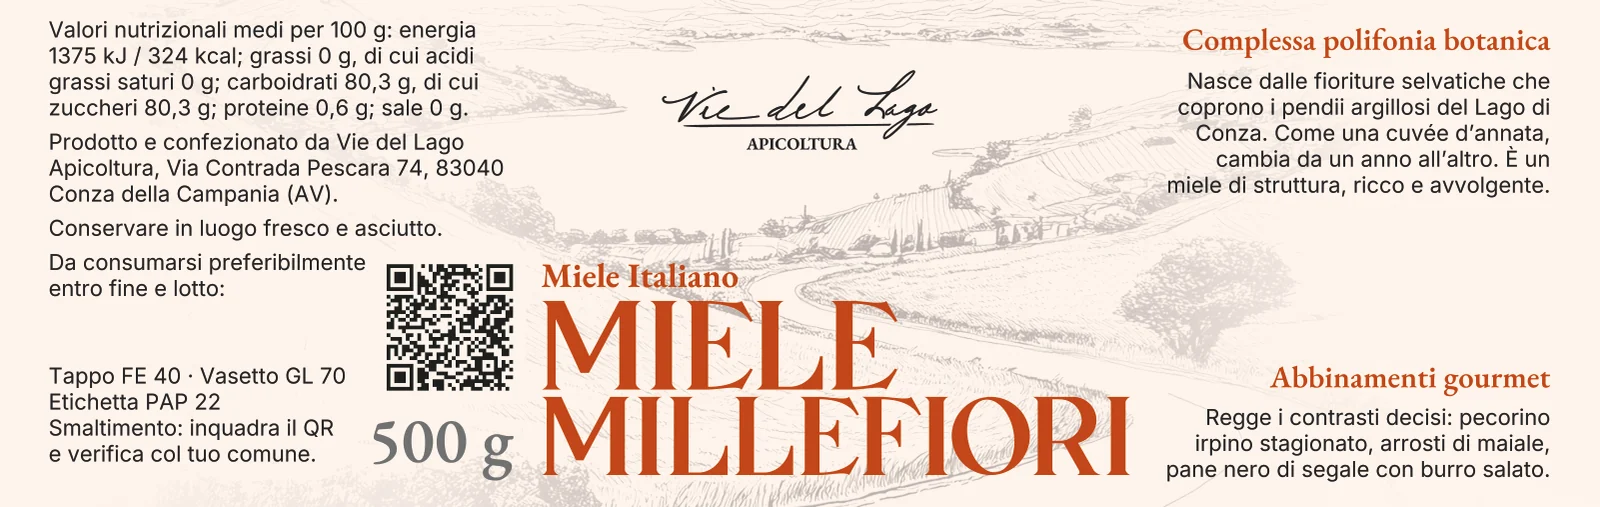
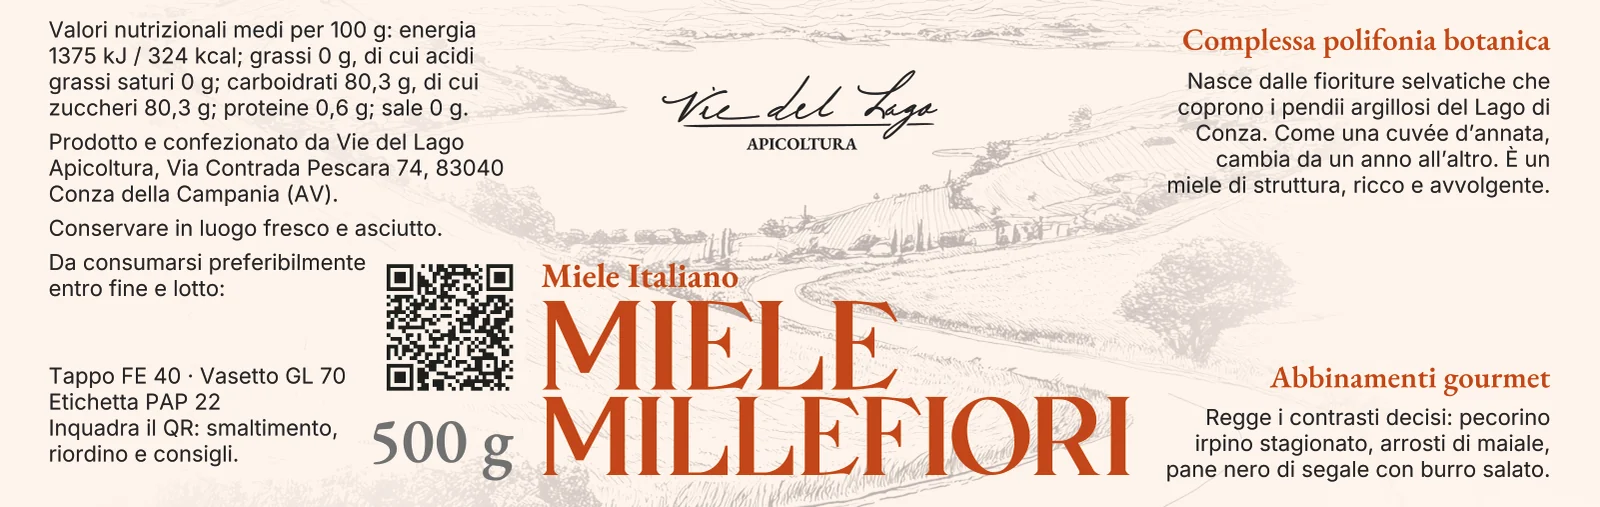
Pagine QR: riordino, recensione e cristallizzazione; etichette con la nuova scritta (#101)
- /q/ e /en/q/: riordino su WhatsApp (numero composto in JS), recensione
  Google, consigli sulla cristallizzazione per ogni miele
- Immagini delle etichette con "Inquadra il QR: smaltimento, riordino e consigli."

Claude-Session: https://claude.ai/code/session_0158YTuacGQRhmcvaVHapShK

Changed region(s): [[0.0312, 0.8284, 0.2188, 0.9172]]

diff --git a/q/sulla/index.html b/q/sulla/index.html
@@ -26,8 +26,13 @@
     .qr__voci dt{font-size:12px;font-weight:600;letter-spacing:.14em;text-transform:uppercase;color:var(--accento-testo)}
     .qr__voci dd{margin:6px 0 0}
     .qr__nota{margin:30px 0 0;color:var(--grigio)}
-    .qr__miele{margin-top:56px;padding:28px;border-radius:18px;background:color-mix(in srgb,var(--accento) 10%,#EFEDE3)}
-    .qr__miele p{margin:0 0 20px}
+    .qr__blocchi{margin-top:56px;display:grid;gap:16px}
+    .qr__blocco{padding:26px 28px;border-radius:18px;background:color-mix(in srgb,var(--accento) 10%,#EFEDE3)}
+    .qr__blocco h2{margin:0 0 8px;font-family:var(--display);font-weight:400;font-size:clamp(24px,5.5vw,30px);line-height:1.15}
+    .qr__blocco p{margin:0 0 18px}
+    .qr__blocco p:last-child{margin-bottom:0}
+    .qr__blocco .btn{padding:15px 22px;letter-spacing:.08em}
+    .qr__blocco--chiaro{background:transparent;border:1px solid color-mix(in srgb,var(--accento) 35%,transparent)}
     .qr__piede{padding:22px 0 30px;font-size:14px;color:var(--grigio)}
   </style>
 </head>
@@ -46,12 +51,30 @@
       <div><dt>Etichetta</dt><dd>Carta (PAP 22). Se si stacca facilmente va nella carta, altrimenti lasciala sul vasetto.</dd></div>
     </dl>
     <p class="qr__nota">Prima di buttarli svuota e sciacqua il vasetto e svita il tappo. Le regole della raccolta cambiano da comune a comune: verifica quelle del tuo.</p>
-    <div class="qr__miele">
-      <p>Grazie per aver scelto il nostro miele. La sulla fiorisce di rosso per poche settimane sui terreni argillosi intorno al Lago di Conza. Il miele di questo vasetto viene da quei prati.</p>
-      <a class="btn btn--pieno" href="/sulla.html">Scopri il miele <span class="freccia" aria-hidden="true">→</span></a>
+
+    <div class="qr__blocchi">
+      <section class="qr__blocco">
+        <h2>Ne vuoi un altro?</h2>
+        <p>Scrivici su WhatsApp: ritiri in azienda a Conza o te lo portiamo noi, ovunque in Campania.</p>
+        <a class="btn btn--pieno" href="/contatti.html" data-wa="?text=Ciao%20Vie%20del%20Lago%2C%20vorrei%20ordinare%20un%20altro%20vasetto%20di%20Miele%20di%20Sulla.">Ordina su WhatsApp <span class="freccia" aria-hidden="true">→</span></a>
+      </section>
+      <section class="qr__blocco qr__blocco--chiaro">
+        <h2>Ti è piaciuto?</h2>
+        <p>Raccontalo in una recensione su Google. Per un piccolo apicoltore è il modo migliore per farsi trovare.</p>
+        <a class="btn" href="https://g.page/r/Cf0N8iQXoy34EBM/review" target="_blank" rel="noopener">Lascia una recensione <span class="freccia" aria-hidden="true">→</span></a>
+      </section>
+      <section class="qr__blocco qr__blocco--chiaro">
+        <h2>Si è cristallizzato?</h2>
+        <p>È normale: la sulla cristallizza in una pasta bianca, fine e cremosa. Non è un difetto e il miele resta buono com'era. Se lo preferisci liquido, metti il vasetto aperto a bagnomaria in acqua tiepida, senza superare i 40&nbsp;°C, e mescola ogni tanto. Evita il microonde.</p>
+      </section>
+      <section class="qr__blocco">
+        <p>Grazie per aver scelto il nostro miele. La sulla fiorisce di rosso per poche settimane sui terreni argillosi intorno al Lago di Conza. Il miele di questo vasetto viene da quei prati.</p>
+        <a class="btn btn--pieno" href="/sulla.html">Scopri il miele <span class="freccia" aria-hidden="true">→</span></a>
+      </section>
     </div>
   </div>
 </main>
 <footer class="qr__piede"><div class="contenitore" style="max-width:640px">Vie del Lago Apicoltura · Conza della Campania (AV)</div></footer>
+<script src="/script.js"></script>
 </body>
 </html>

diff --git a/en/q/acacia/index.html b/en/q/acacia/index.html
@@ -26,8 +26,13 @@
     .qr__voci dt{font-size:12px;font-weight:600;letter-spacing:.14em;text-transform:uppercase;color:var(--accento-testo)}
     .qr__voci dd{margin:6px 0 0}
     .qr__nota{margin:30px 0 0;color:var(--grigio)}
-    .qr__miele{margin-top:56px;padding:28px;border-radius:18px;background:color-mix(in srgb,var(--accento) 10%,#EFEDE3)}
-    .qr__miele p{margin:0 0 20px}
+    .qr__blocchi{margin-top:56px;display:grid;gap:16px}
+    .qr__blocco{padding:26px 28px;border-radius:18px;background:color-mix(in srgb,var(--accento) 10%,#EFEDE3)}
+    .qr__blocco h2{margin:0 0 8px;font-family:var(--display);font-weight:400;font-size:clamp(24px,5.5vw,30px);line-height:1.15}
+    .qr__blocco p{margin:0 0 18px}
+    .qr__blocco p:last-child{margin-bottom:0}
+    .qr__blocco .btn{padding:15px 22px;letter-spacing:.08em}
+    .qr__blocco--chiaro{background:transparent;border:1px solid color-mix(in srgb,var(--accento) 35%,transparent)}
     .qr__piede{padding:22px 0 30px;font-size:14px;color:var(--grigio)}
   </style>
 </head>
@@ -46,12 +51,30 @@
       <div><dt>Label</dt><dd>Paper (PAP 22). If it peels off easily it goes with paper, otherwise leave it on the jar.</dd></div>
     </dl>
     <p class="qr__nota">Before you throw them away, empty and rinse the jar and unscrew the lid. Collection rules change from town to town, so check the ones where you live.</p>
-    <div class="qr__miele">
-      <p>Thank you for choosing our honey. It comes from the black locust trees in the damp valleys around Lake Conza. It is pale, delicate and stays liquid for a long time.</p>
-      <a class="btn btn--pieno" href="/en/acacia.html">Discover the honey <span class="freccia" aria-hidden="true">→</span></a>
+
+    <div class="qr__blocchi">
+      <section class="qr__blocco">
+        <h2>Would you like another jar?</h2>
+        <p>Message us on WhatsApp: collect it from the farm in Conza or we deliver anywhere in Campania.</p>
+        <a class="btn btn--pieno" href="/en/contatti.html" data-wa="?text=Hi%20Vie%20del%20Lago%2C%20I%20would%20like%20to%20order%20another%20jar%20of%20Acacia%20honey.">Order on WhatsApp <span class="freccia" aria-hidden="true">→</span></a>
+      </section>
+      <section class="qr__blocco qr__blocco--chiaro">
+        <h2>Did you enjoy it?</h2>
+        <p>Tell others in a Google review. For a small beekeeper it is the best way to be found.</p>
+        <a class="btn" href="https://g.page/r/Cf0N8iQXoy34EBM/review" target="_blank" rel="noopener">Leave a review <span class="freccia" aria-hidden="true">→</span></a>
+      </section>
+      <section class="qr__blocco qr__blocco--chiaro">
+        <h2>Has it crystallised?</h2>
+        <p>It rarely happens, because acacia honey stays liquid for a long time, but cold can set it. It is not a defect and the honey is just as good. If you prefer it runny, stand the open jar in warm water, no hotter than 40&nbsp;°C, and stir now and then. Avoid the microwave.</p>
+      </section>
+      <section class="qr__blocco">
+        <p>Thank you for choosing our honey. It comes from the black locust trees in the damp valleys around Lake Conza. It is pale, delicate and stays liquid for a long time.</p>
+        <a class="btn btn--pieno" href="/en/acacia.html">Discover the honey <span class="freccia" aria-hidden="true">→</span></a>
+      </section>
     </div>
   </div>
 </main>
 <footer class="qr__piede"><div class="contenitore" style="max-width:640px">Vie del Lago Apicoltura · Conza della Campania (AV), Italy</div></footer>
+<script src="/script.js"></script>
 </body>
 </html>

diff --git a/q/millefiori/index.html b/q/millefiori/index.html
@@ -26,8 +26,13 @@
     .qr__voci dt{font-size:12px;font-weight:600;letter-spacing:.14em;text-transform:uppercase;color:var(--accento-testo)}
     .qr__voci dd{margin:6px 0 0}
     .qr__nota{margin:30px 0 0;color:var(--grigio)}
-    .qr__miele{margin-top:56px;padding:28px;border-radius:18px;background:color-mix(in srgb,var(--accento) 10%,#EFEDE3)}
-    .qr__miele p{margin:0 0 20px}
+    .qr__blocchi{margin-top:56px;display:grid;gap:16px}
+    .qr__blocco{padding:26px 28px;border-radius:18px;background:color-mix(in srgb,var(--accento) 10%,#EFEDE3)}
+    .qr__blocco h2{margin:0 0 8px;font-family:var(--display);font-weight:400;font-size:clamp(24px,5.5vw,30px);line-height:1.15}
+    .qr__blocco p{margin:0 0 18px}
+    .qr__blocco p:last-child{margin-bottom:0}
+    .qr__blocco .btn{padding:15px 22px;letter-spacing:.08em}
+    .qr__blocco--chiaro{background:transparent;border:1px solid color-mix(in srgb,var(--accento) 35%,transparent)}
     .qr__piede{padding:22px 0 30px;font-size:14px;color:var(--grigio)}
   </style>
 </head>
@@ -46,12 +51,30 @@
       <div><dt>Etichetta</dt><dd>Carta (PAP 22). Se si stacca facilmente va nella carta, altrimenti lasciala sul vasetto.</dd></div>
     </dl>
     <p class="qr__nota">Prima di buttarli svuota e sciacqua il vasetto e svita il tappo. Le regole della raccolta cambiano da comune a comune: verifica quelle del tuo.</p>
-    <div class="qr__miele">
-      <p>Grazie per aver scelto il nostro miele. Nasce dalle fioriture selvatiche dei pendii intorno al Lago di Conza e cambia da un anno all'altro, come una cuvée d'annata.</p>
-      <a class="btn btn--pieno" href="/millefiori.html">Scopri il miele <span class="freccia" aria-hidden="true">→</span></a>
+
+    <div class="qr__blocchi">
+      <section class="qr__blocco">
+        <h2>Ne vuoi un altro?</h2>
+        <p>Scrivici su WhatsApp: ritiri in azienda a Conza o te lo portiamo noi, ovunque in Campania.</p>
+        <a class="btn btn--pieno" href="/contatti.html" data-wa="?text=Ciao%20Vie%20del%20Lago%2C%20vorrei%20ordinare%20un%20altro%20vasetto%20di%20Miele%20Millefiori.">Ordina su WhatsApp <span class="freccia" aria-hidden="true">→</span></a>
+      </section>
+      <section class="qr__blocco qr__blocco--chiaro">
+        <h2>Ti è piaciuto?</h2>
+        <p>Raccontalo in una recensione su Google. Per un piccolo apicoltore è il modo migliore per farsi trovare.</p>
+        <a class="btn" href="https://g.page/r/Cf0N8iQXoy34EBM/review" target="_blank" rel="noopener">Lascia una recensione <span class="freccia" aria-hidden="true">→</span></a>
+      </section>
+      <section class="qr__blocco qr__blocco--chiaro">
+        <h2>Si è cristallizzato?</h2>
+        <p>È normale: il millefiori cristallizza nel giro di qualche mese. Non è un difetto e il miele resta buono com'era. Se lo preferisci liquido, metti il vasetto aperto a bagnomaria in acqua tiepida, senza superare i 40&nbsp;°C, e mescola ogni tanto. Evita il microonde.</p>
+      </section>
+      <section class="qr__blocco">
+        <p>Grazie per aver scelto il nostro miele. Nasce dalle fioriture selvatiche dei pendii intorno al Lago di Conza e cambia da un anno all'altro, come una cuvée d'annata.</p>
+        <a class="btn btn--pieno" href="/millefiori.html">Scopri il miele <span class="freccia" aria-hidden="true">→</span></a>
+      </section>
     </div>
   </div>
 </main>
 <footer class="qr__piede"><div class="contenitore" style="max-width:640px">Vie del Lago Apicoltura · Conza della Campania (AV)</div></footer>
+<script src="/script.js"></script>
 </body>
 </html>

diff --git a/q/acacia/index.html b/q/acacia/index.html
@@ -26,8 +26,13 @@
     .qr__voci dt{font-size:12px;font-weight:600;letter-spacing:.14em;text-transform:uppercase;color:var(--accento-testo)}
     .qr__voci dd{margin:6px 0 0}
     .qr__nota{margin:30px 0 0;color:var(--grigio)}
-    .qr__miele{margin-top:56px;padding:28px;border-radius:18px;background:color-mix(in srgb,var(--accento) 10%,#EFEDE3)}
-    .qr__miele p{margin:0 0 20px}
+    .qr__blocchi{margin-top:56px;display:grid;gap:16px}
+    .qr__blocco{padding:26px 28px;border-radius:18px;background:color-mix(in srgb,var(--accento) 10%,#EFEDE3)}
+    .qr__blocco h2{margin:0 0 8px;font-family:var(--display);font-weight:400;font-size:clamp(24px,5.5vw,30px);line-height:1.15}
+    .qr__blocco p{margin:0 0 18px}
+    .qr__blocco p:last-child{margin-bottom:0}
+    .qr__blocco .btn{padding:15px 22px;letter-spacing:.08em}
+    .qr__blocco--chiaro{background:transparent;border:1px solid color-mix(in srgb,var(--accento) 35%,transparent)}
     .qr__piede{padding:22px 0 30px;font-size:14px;color:var(--grigio)}
   </style>
 </head>
@@ -46,12 +51,30 @@
       <div><dt>Etichetta</dt><dd>Carta (PAP 22). Se si stacca facilmente va nella carta, altrimenti lasciala sul vasetto.</dd></div>
     </dl>
     <p class="qr__nota">Prima di buttarli svuota e sciacqua il vasetto e svita il tappo. Le regole della raccolta cambiano da comune a comune: verifica quelle del tuo.</p>
-    <div class="qr__miele">
-      <p>Grazie per aver scelto il nostro miele. Viene dalle robinie dei valloni umidi intorno al Lago di Conza. È chiaro, delicato e resta liquido a lungo.</p>
-      <a class="btn btn--pieno" href="/acacia.html">Scopri il miele <span class="freccia" aria-hidden="true">→</span></a>
+
+    <div class="qr__blocchi">
+      <section class="qr__blocco">
+        <h2>Ne vuoi un altro?</h2>
+        <p>Scrivici su WhatsApp: ritiri in azienda a Conza o te lo portiamo noi, ovunque in Campania.</p>
+        <a class="btn btn--pieno" href="/contatti.html" data-wa="?text=Ciao%20Vie%20del%20Lago%2C%20vorrei%20ordinare%20un%20altro%20vasetto%20di%20Miele%20di%20Acacia.">Ordina su WhatsApp <span class="freccia" aria-hidden="true">→</span></a>
+      </section>
+      <section class="qr__blocco qr__blocco--chiaro">
+        <h2>Ti è piaciuto?</h2>
+        <p>Raccontalo in una recensione su Google. Per un piccolo apicoltore è il modo migliore per farsi trovare.</p>
+        <a class="btn" href="https://g.page/r/Cf0N8iQXoy34EBM/review" target="_blank" rel="noopener">Lascia una recensione <span class="freccia" aria-hidden="true">→</span></a>
+      </section>
+      <section class="qr__blocco qr__blocco--chiaro">
+        <h2>Si è cristallizzato?</h2>
+        <p>Succede di rado, perché l'acacia resta liquida a lungo, ma col freddo può capitare. Non è un difetto e il miele resta buono com'era. Se lo preferisci liquido, metti il vasetto aperto a bagnomaria in acqua tiepida, senza superare i 40&nbsp;°C, e mescola ogni tanto. Evita il microonde.</p>
+      </section>
+      <section class="qr__blocco">
+        <p>Grazie per aver scelto il nostro miele. Viene dalle robinie dei valloni umidi intorno al Lago di Conza. È chiaro, delicato e resta liquido a lungo.</p>
+        <a class="btn btn--pieno" href="/acacia.html">Scopri il miele <span class="freccia" aria-hidden="true">→</span></a>
+      </section>
     </div>
   </div>
 </main>
 <footer class="qr__piede"><div class="contenitore" style="max-width:640px">Vie del Lago Apicoltura · Conza della Campania (AV)</div></footer>
+<script src="/script.js"></script>
 </body>
 </html>

diff --git a/en/q/millefiori/index.html b/en/q/millefiori/index.html
@@ -26,8 +26,13 @@
     .qr__voci dt{font-size:12px;font-weight:600;letter-spacing:.14em;text-transform:uppercase;color:var(--accento-testo)}
     .qr__voci dd{margin:6px 0 0}
     .qr__nota{margin:30px 0 0;color:var(--grigio)}
-    .qr__miele{margin-top:56px;padding:28px;border-radius:18px;background:color-mix(in srgb,var(--accento) 10%,#EFEDE3)}
-    .qr__miele p{margin:0 0 20px}
+    .qr__blocchi{margin-top:56px;display:grid;gap:16px}
+    .qr__blocco{padding:26px 28px;border-radius:18px;background:color-mix(in srgb,var(--accento) 10%,#EFEDE3)}
+    .qr__blocco h2{margin:0 0 8px;font-family:var(--display);font-weight:400;font-size:clamp(24px,5.5vw,30px);line-height:1.15}
+    .qr__blocco p{margin:0 0 18px}
+    .qr__blocco p:last-child{margin-bottom:0}
+    .qr__blocco .btn{padding:15px 22px;letter-spacing:.08em}
+    .qr__blocco--chiaro{background:transparent;border:1px solid color-mix(in srgb,var(--accento) 35%,transparent)}
     .qr__piede{padding:22px 0 30px;font-size:14px;color:var(--grigio)}
   </style>
 </head>
@@ -46,12 +51,30 @@
       <div><dt>Label</dt><dd>Paper (PAP 22). If it peels off easily it goes with paper, otherwise leave it on the jar.</dd></div>
     </dl>
     <p class="qr__nota">Before you throw them away, empty and rinse the jar and unscrew the lid. Collection rules change from town to town, so check the ones where you live.</p>
-    <div class="qr__miele">
-      <p>Thank you for choosing our honey. It comes from the wild flowers on the slopes around Lake Conza and changes from one year to the next, like a vintage cuvée.</p>
-      <a class="btn btn--pieno" href="/en/millefiori.html">Discover the honey <span class="freccia" aria-hidden="true">→</span></a>
+
+    <div class="qr__blocchi">
+      <section class="qr__blocco">
+        <h2>Would you like another jar?</h2>
+        <p>Message us on WhatsApp: collect it from the farm in Conza or we deliver anywhere in Campania.</p>
+        <a class="btn btn--pieno" href="/en/contatti.html" data-wa="?text=Hi%20Vie%20del%20Lago%2C%20I%20would%20like%20to%20order%20another%20jar%20of%20Millefiori%20honey.">Order on WhatsApp <span class="freccia" aria-hidden="true">→</span></a>
+      </section>
+      <section class="qr__blocco qr__blocco--chiaro">
+        <h2>Did you enjoy it?</h2>
+        <p>Tell others in a Google review. For a small beekeeper it is the best way to be found.</p>
+        <a class="btn" href="https://g.page/r/Cf0N8iQXoy34EBM/review" target="_blank" rel="noopener">Leave a review <span class="freccia" aria-hidden="true">→</span></a>
+      </section>
+      <section class="qr__blocco qr__blocco--chiaro">
+        <h2>Has it crystallised?</h2>
+        <p>That is normal: millefiori honey sets within a few months. It is not a defect and the honey is just as good. If you prefer it runny, stand the open jar in warm water, no hotter than 40&nbsp;°C, and stir now and then. Avoid the microwave.</p>
+      </section>
+      <section class="qr__blocco">
+        <p>Thank you for choosing our honey. It comes from the wild flowers on the slopes around Lake Conza and changes from one year to the next, like a vintage cuvée.</p>
+        <a class="btn btn--pieno" href="/en/millefiori.html">Discover the honey <span class="freccia" aria-hidden="true">→</span></a>
+      </section>
     </div>
   </div>
 </main>
 <footer class="qr__piede"><div class="contenitore" style="max-width:640px">Vie del Lago Apicoltura · Conza della Campania (AV), Italy</div></footer>
+<script src="/script.js"></script>
 </body>
 </html>

diff --git a/en/q/sulla/index.html b/en/q/sulla/index.html
@@ -26,8 +26,13 @@
     .qr__voci dt{font-size:12px;font-weight:600;letter-spacing:.14em;text-transform:uppercase;color:var(--accento-testo)}
     .qr__voci dd{margin:6px 0 0}
     .qr__nota{margin:30px 0 0;color:var(--grigio)}
-    .qr__miele{margin-top:56px;padding:28px;border-radius:18px;background:color-mix(in srgb,var(--accento) 10%,#EFEDE3)}
-    .qr__miele p{margin:0 0 20px}
+    .qr__blocchi{margin-top:56px;display:grid;gap:16px}
+    .qr__blocco{padding:26px 28px;border-radius:18px;background:color-mix(in srgb,var(--accento) 10%,#EFEDE3)}
+    .qr__blocco h2{margin:0 0 8px;font-family:var(--display);font-weight:400;font-size:clamp(24px,5.5vw,30px);line-height:1.15}
+    .qr__blocco p{margin:0 0 18px}
+    .qr__blocco p:last-child{margin-bottom:0}
+    .qr__blocco .btn{padding:15px 22px;letter-spacing:.08em}
+    .qr__blocco--chiaro{background:transparent;border:1px solid color-mix(in srgb,var(--accento) 35%,transparent)}
     .qr__piede{padding:22px 0 30px;font-size:14px;color:var(--grigio)}
   </style>
 </head>
@@ -46,12 +51,30 @@
       <div><dt>Label</dt><dd>Paper (PAP 22). If it peels off easily it goes with paper, otherwise leave it on the jar.</dd></div>
     </dl>
     <p class="qr__nota">Before you throw them away, empty and rinse the jar and unscrew the lid. Collection rules change from town to town, so check the ones where you live.</p>
-    <div class="qr__miele">
-      <p>Thank you for choosing our honey. Sulla flowers red for just a few weeks on the clay soils around Lake Conza. The honey in this jar comes from those meadows.</p>
-      <a class="btn btn--pieno" href="/en/sulla.html">Discover the honey <span class="freccia" aria-hidden="true">→</span></a>
+
+    <div class="qr__blocchi">
+      <section class="qr__blocco">
+        <h2>Would you like another jar?</h2>
+        <p>Message us on WhatsApp: collect it from the farm in Conza or we deliver anywhere in Campania.</p>
+        <a class="btn btn--pieno" href="/en/contatti.html" data-wa="?text=Hi%20Vie%20del%20Lago%2C%20I%20would%20like%20to%20order%20another%20jar%20of%20Sulla%20honey.">Order on WhatsApp <span class="freccia" aria-hidden="true">→</span></a>
+      </section>
+      <section class="qr__blocco qr__blocco--chiaro">
+        <h2>Did you enjoy it?</h2>
+        <p>Tell others in a Google review. For a small beekeeper it is the best way to be found.</p>
+        <a class="btn" href="https://g.page/r/Cf0N8iQXoy34EBM/review" target="_blank" rel="noopener">Leave a review <span class="freccia" aria-hidden="true">→</span></a>
+      </section>
+      <section class="qr__blocco qr__blocco--chiaro">
+        <h2>Has it crystallised?</h2>
+        <p>That is normal: sulla honey sets into a fine, creamy white paste. It is not a defect and the honey is just as good. If you prefer it runny, stand the open jar in warm water, no hotter than 40&nbsp;°C, and stir now and then. Avoid the microwave.</p>
+      </section>
+      <section class="qr__blocco">
+        <p>Thank you for choosing our honey. Sulla flowers red for just a few weeks on the clay soils around Lake Conza. The honey in this jar comes from those meadows.</p>
+        <a class="btn btn--pieno" href="/en/sulla.html">Discover the honey <span class="freccia" aria-hidden="true">→</span></a>
+      </section>
     </div>
   </div>
 </main>
 <footer class="qr__piede"><div class="contenitore" style="max-width:640px">Vie del Lago Apicoltura · Conza della Campania (AV), Italy</div></footer>
+<script src="/script.js"></script>
 </body>
 </html>
